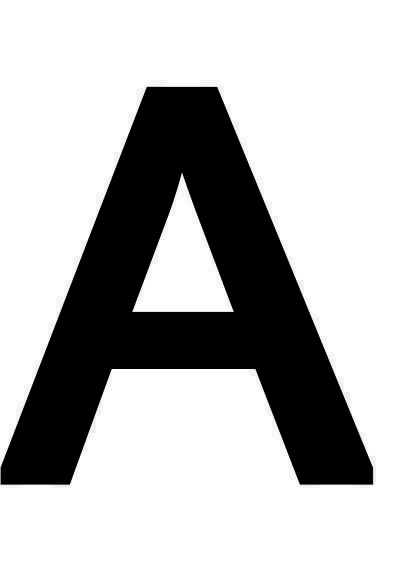
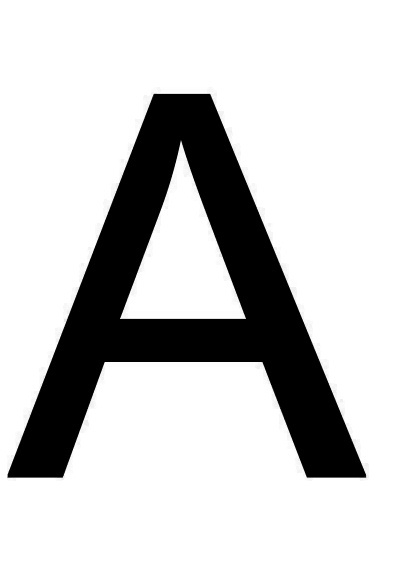
For thickening and thinning

Changed region(s): [[0.0, 0.1507, 0.9466, 0.8741], [0.3053, 0.2411, 0.6412, 0.5727]]

diff --git a/q3/q3.py b/q3/q3.py
@@ -17,8 +17,15 @@ import sys
 import numpy as np
 
 Frame = cv2.imread('A.jpg',cv2.IMREAD_GRAYSCALE)
-kernel = np.ones((5,5),np.uint8)
-iterationNo = 4
+size = 0
+while(size<1 or size%2==0):
+    size = int(input('Enter kernel size (e.g. 3,5):\t'))
+    if(size<1):
+        print('Please enter an appropriate kernel size (>=1).')
+    if(size%2==0):
+        print('Kernel size must be odd. Enter an odd no.')
+kernel = np.ones((size,size),np.uint8)
+iterationNo = 1
 
 #For Erosion
 erosion = cv2.erode(Frame,kernel,iterations = iterationNo)
@@ -35,3 +42,22 @@ cv2.imwrite('opening.jpg',opening)
 #For closing
 closing = cv2.morphologyEx(Frame, cv2.MORPH_CLOSE, kernel)
 cv2.imwrite('closing.jpg',closing)
+
+#For thickening
+print("For thickening : ")
+while (iterationNo<2):
+    iterationNo = int(input('Enter the number of iterations : '))
+    if (iterationNo<2):
+        print('Please enter an appropriate iteration number.')
+thickening = cv2.dilate(Frame,kernel,iterations = iterationNo)
+cv2.imwrite('thickening.jpg',thickening)
+
+#For Thinning
+print("For thinning : ")
+iterationNo = 1
+while (iterationNo<2):
+    iterationNo = int(input('Enter the number of iterations : '))
+    if (iterationNo<2):
+        print('Please enter an appropriate iteration number.')
+thinning = cv2.erode(Frame,kernel,iterations = iterationNo)
+cv2.imwrite('thinning.jpg',thinning)
